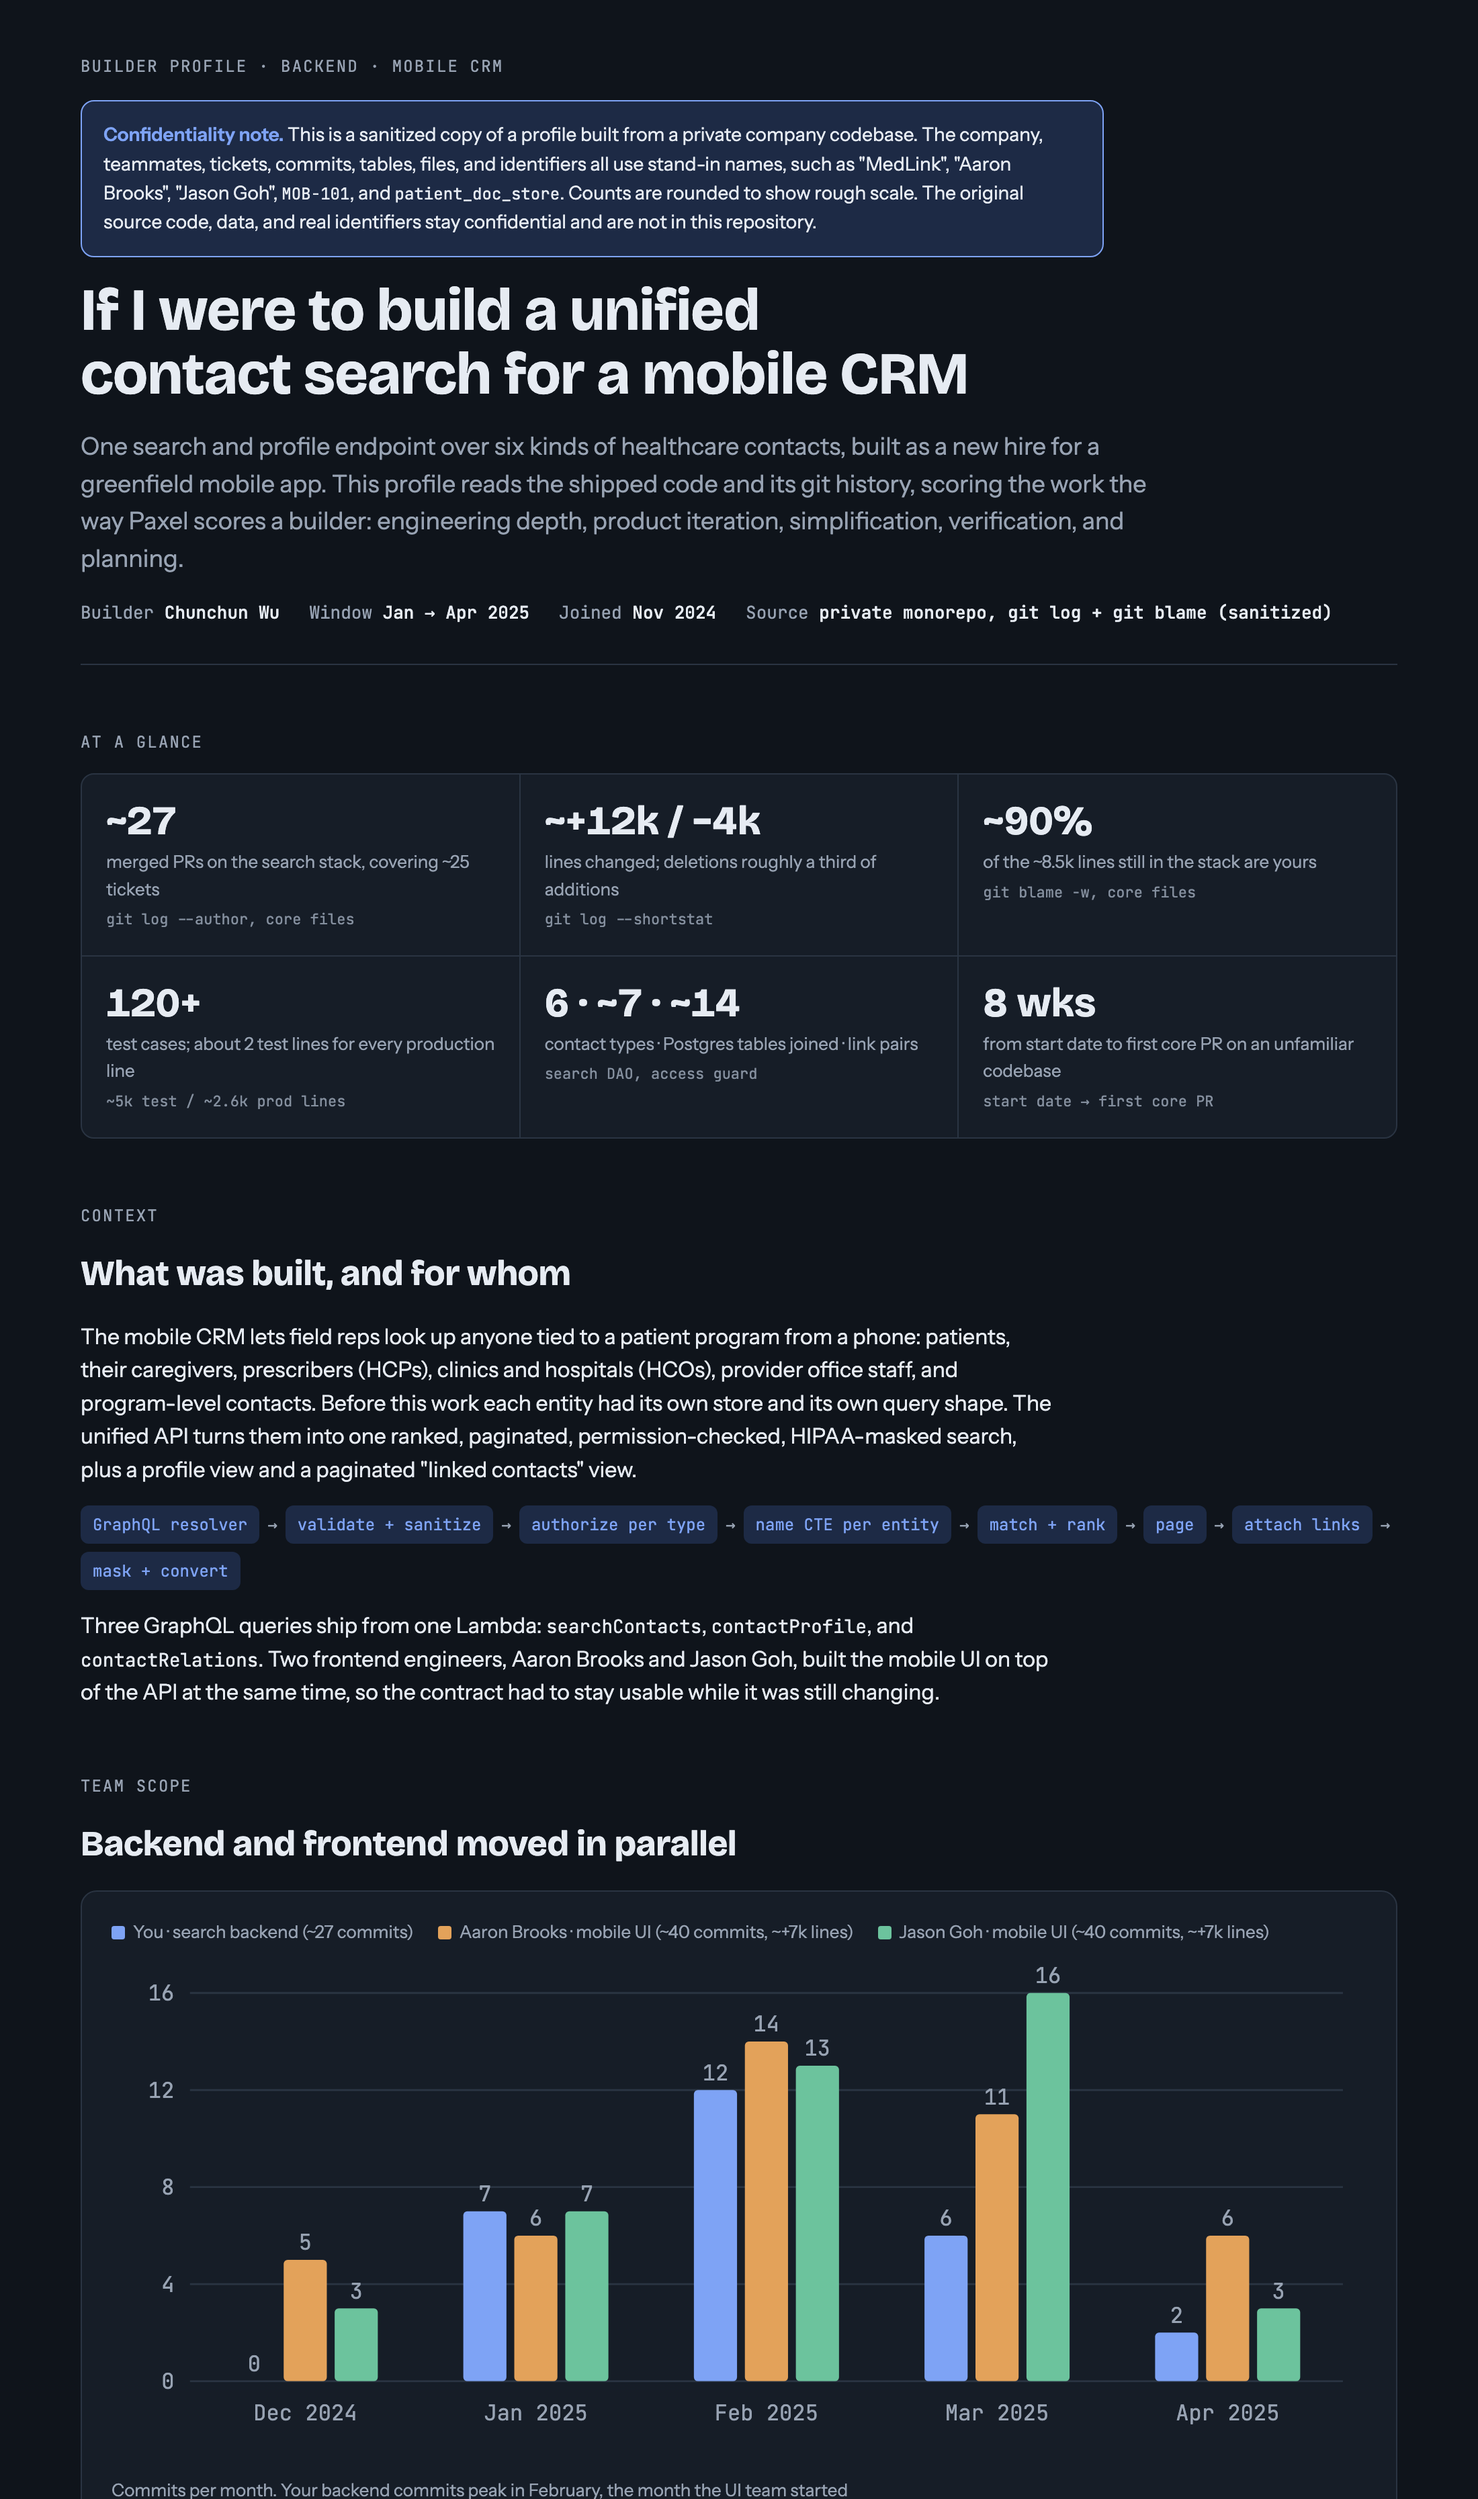
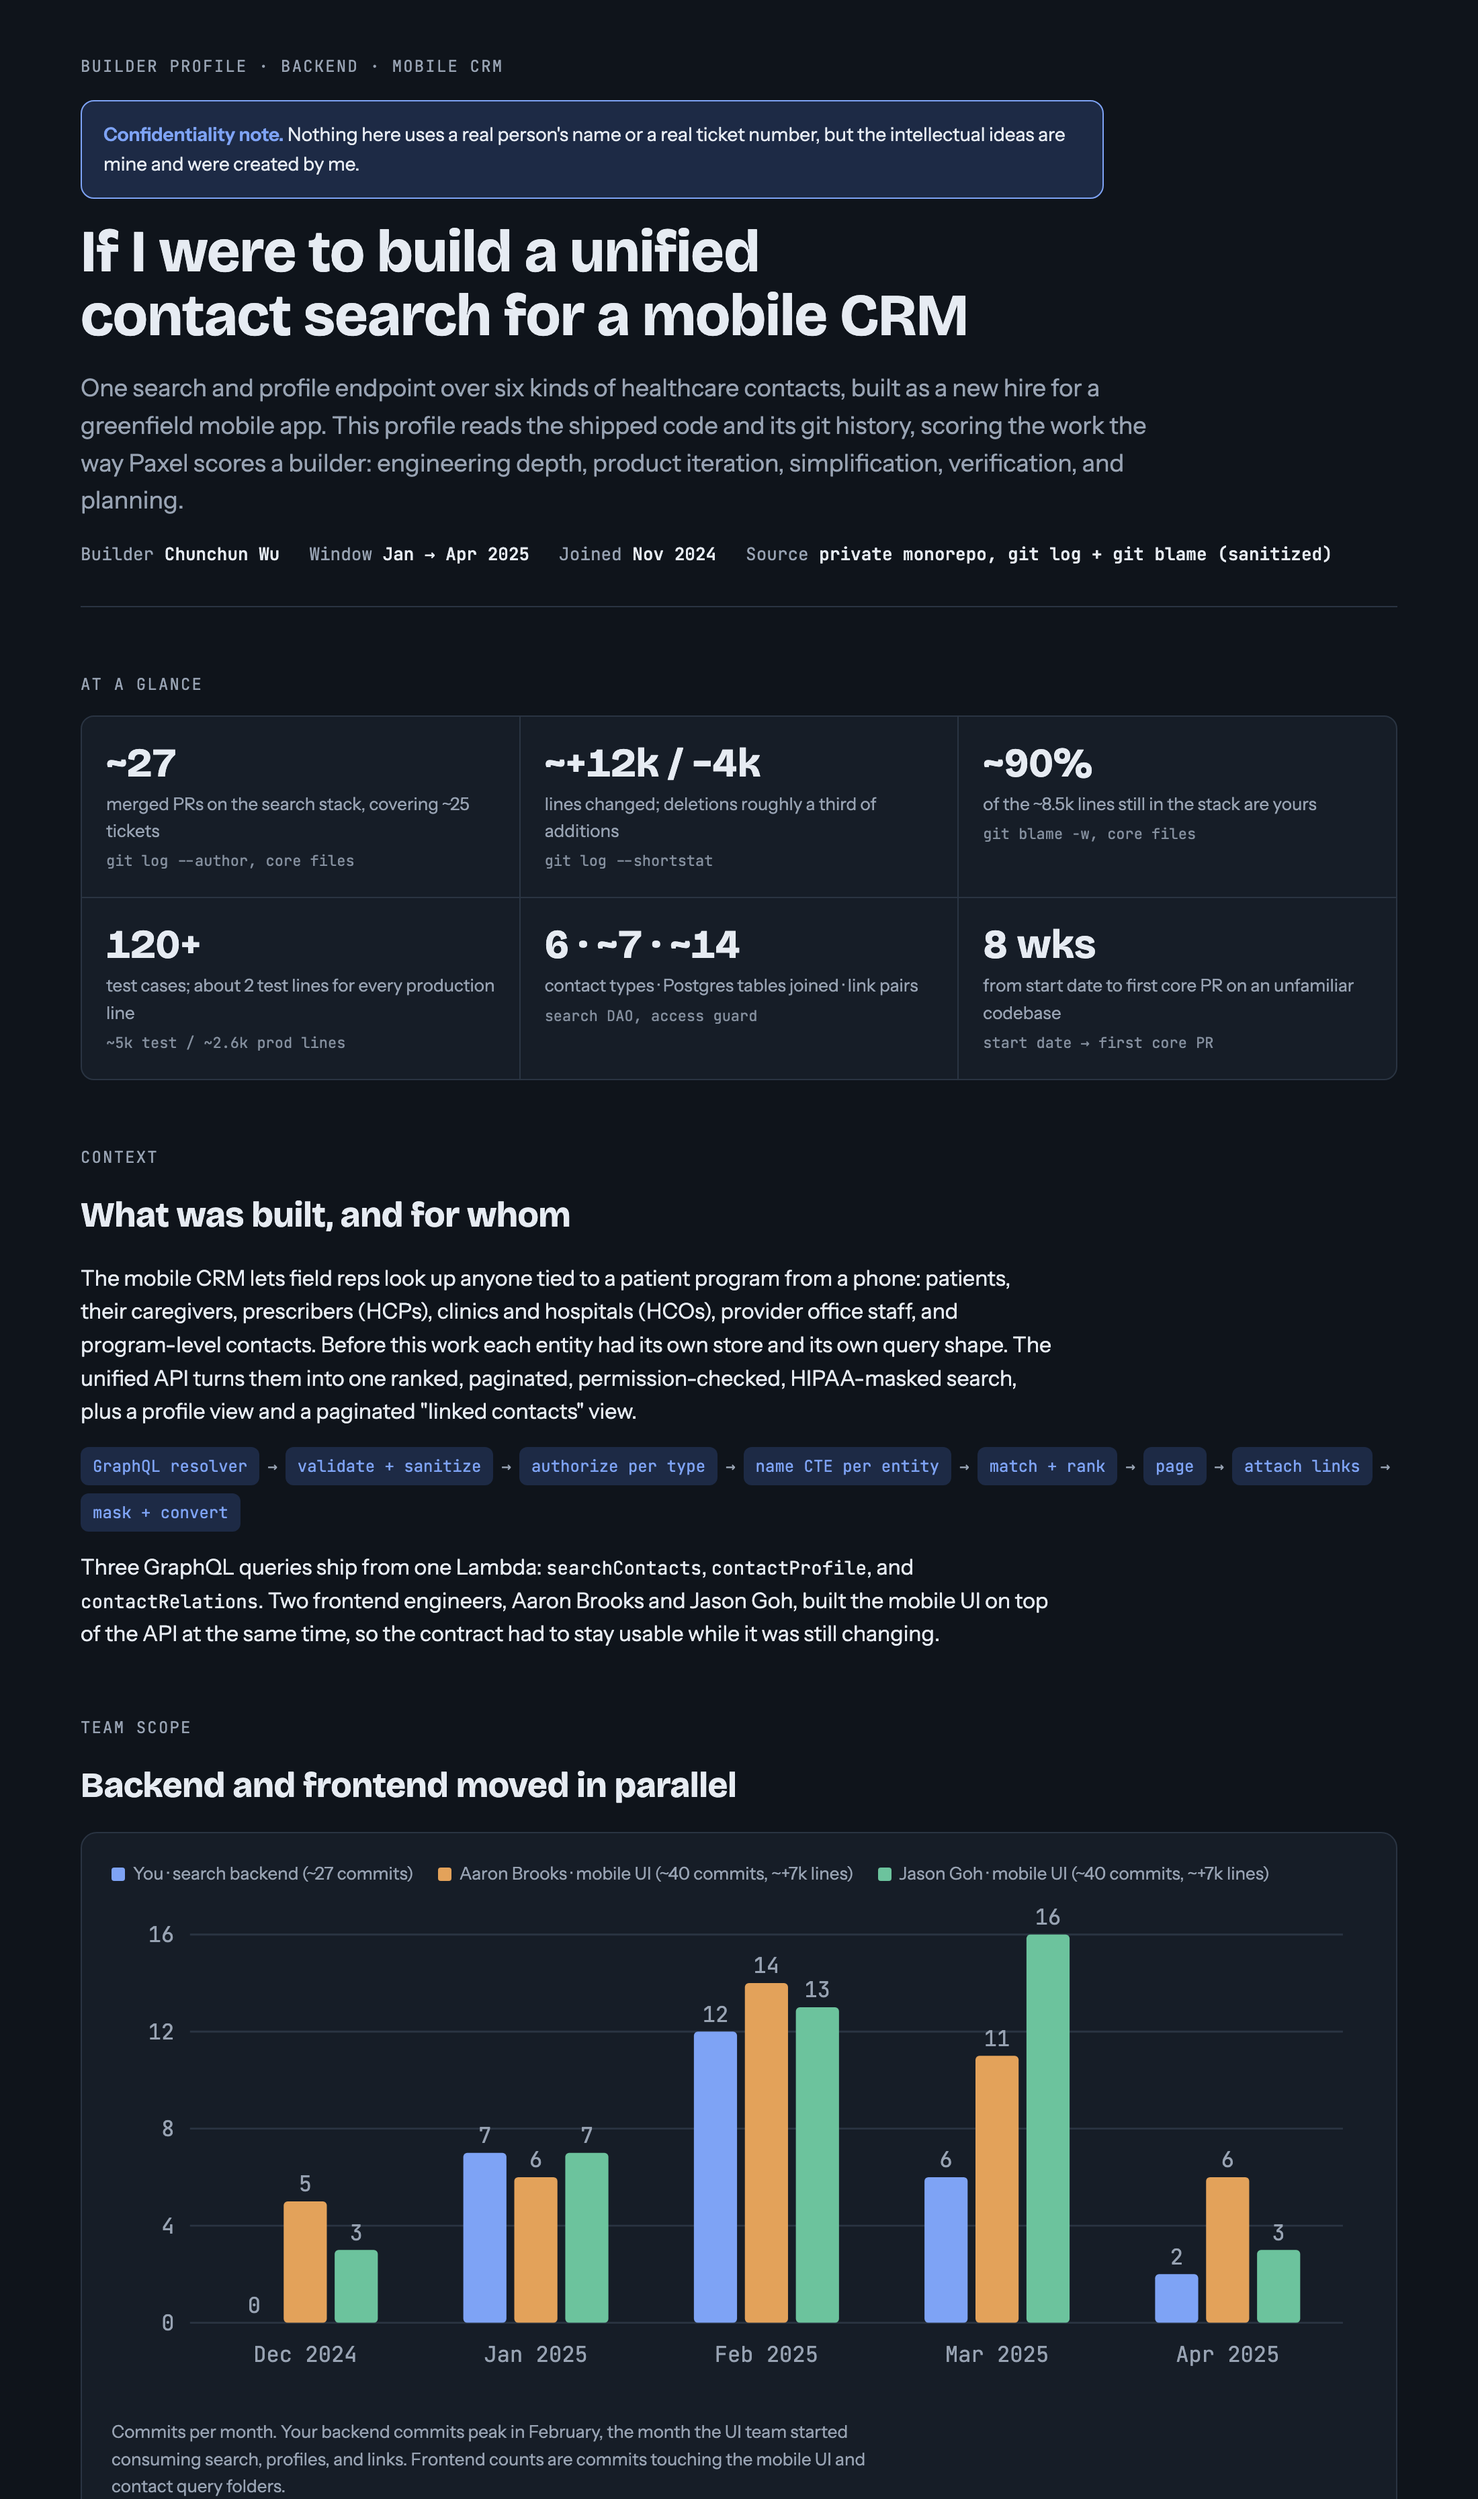
Update confidentiality note on the report and README

diff --git a/index.html b/index.html
@@ -118,7 +118,7 @@ footer { border-top: 1px solid var(--rule); padding-top: 20px; font-size: 13px; 
 
 <header class="top">
   <span class="eyebrow">Builder profile · backend · mobile CRM</span>
-  <div class="notice" role="note"><b>Confidentiality note.</b> This is a sanitized copy of a profile built from a private company codebase. The company, teammates, tickets, commits, tables, files, and identifiers all use stand-in names, such as "MedLink", "Aaron Brooks", "Jason Goh", <code>MOB-101</code>, and <code>patient_doc_store</code>. Counts are rounded to show rough scale. The original source code, data, and real identifiers stay confidential and are not in this repository.</div>
+  <div class="notice" role="note"><b>Confidentiality note.</b> Nothing here uses a real person's name or a real ticket number, but the intellectual ideas are mine and were created by me.</div>
   <h1>If I were to build a unified contact search for a mobile CRM</h1>
   <p class="lede">One search and profile endpoint over six kinds of healthcare contacts, built as a new hire for a greenfield mobile app. This profile reads the shipped code and its git history, scoring the work the way Paxel scores a builder: engineering depth, product iteration, simplification, verification, and planning.</p>
   <div class="meta">

diff --git a/README.md b/README.md
@@ -4,7 +4,7 @@
 
 **Live report:** https://claude.ai/artifact/1KJzmLteTKNPYHVLYaLqLb (same sanitized content as [`index.html`](index.html))
 
-> **Confidentiality note.** This repository is a sanitized write-up of work done on a private company codebase. The company ("MedLink"), teammates ("Aaron Brooks", "Jason Goh"), tickets (`MOB-101`, `PLT-101`, ...), commits (`c001`, ...), PRs (`PR-01`, ...), database tables, files, and code identifiers are all stand-in names that map to the real items. Counts are rounded to show rough scale. No source code, customer data, or real identifiers from the original repository are included, and they remain confidential.
+> **Confidentiality note.** Nothing here uses a real person's name or a real ticket number, but the intellectual ideas are mine and were created by me.
 
 A Paxel-style profile of the backend I built as a new hire: one search and profile API over six kinds of healthcare contacts, built for a greenfield mobile CRM app while two frontend engineers built the UI on top of it.
 
